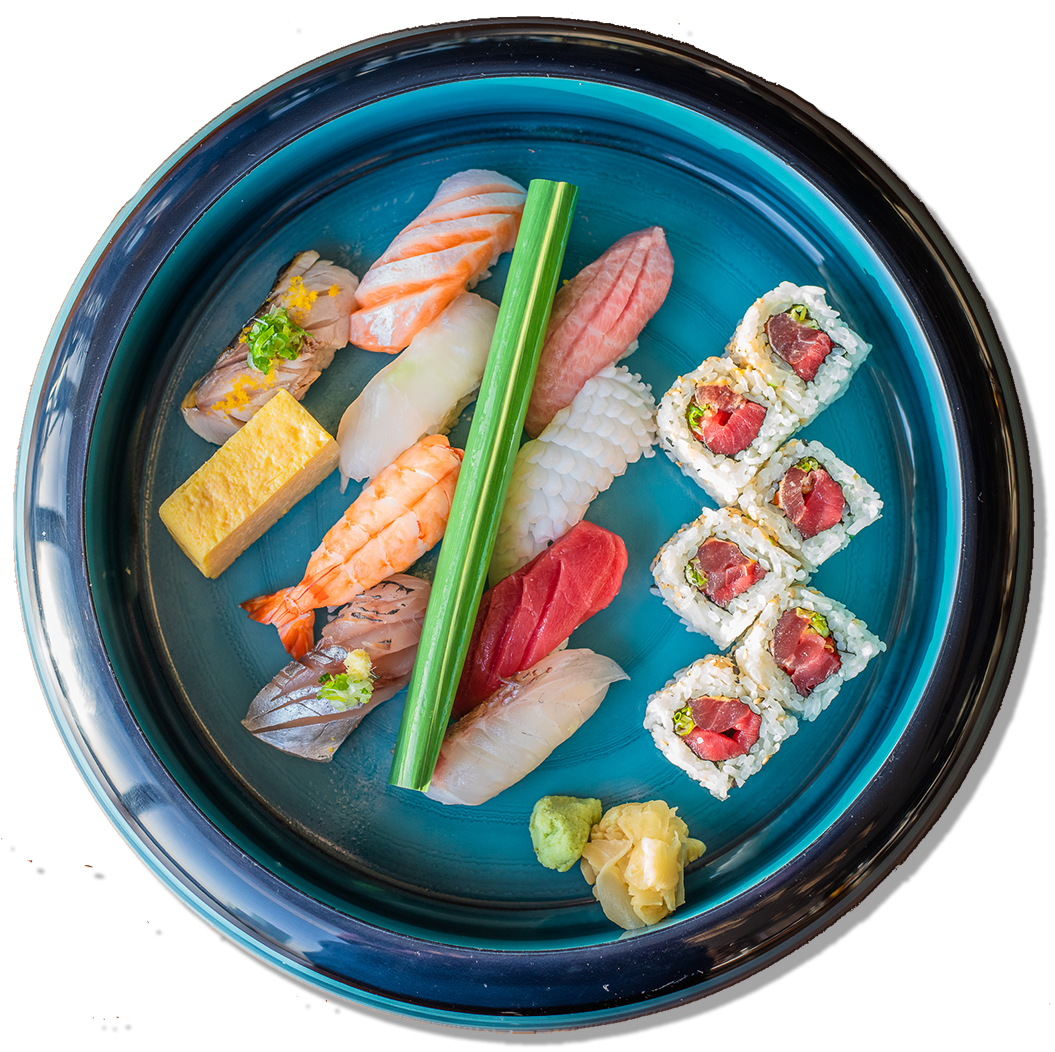
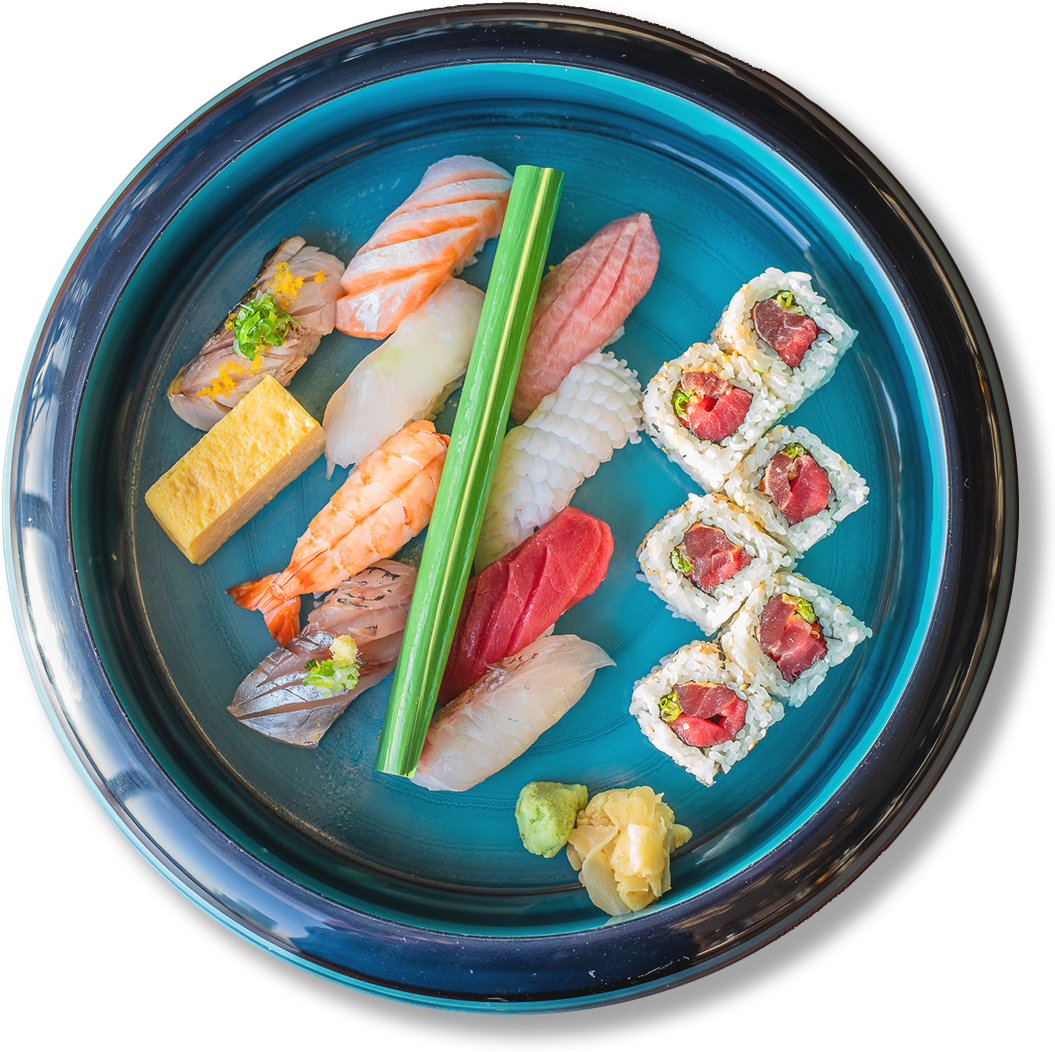
prueba inicio otro plato

diff --git a/inicio/inicio.css b/inicio/inicio.css
@@ -26,21 +26,23 @@
 
 .grid::before{
     content: '';
-    grid-column: 4/-1;  /*  desde la 4 hasta el finnal  */
+    grid-column: 1/-1;  /*  desde la 4 hasta el finnal  */
     grid-row: 1/-1;     /*  de la primera linea a ultima  */
-    background-image: url('../gallery/img/inicio1.png');
+    background-image: url('../gallery/img/inicio_otro_1.png');
     background-repeat: no-repeat;
     /* background-size: ; */ /*  para que la img se ajuste a contenedor */
     background-position: 0% 50%;  /* pare centrar el trozo de img que queremos enseñar */
-    clip-path: polygon(0 0, 100% 0, 100% 0, 0 0); /* !!!!!IMPORTANTE!!!! se hace con la heramienta de clip-path  y sera la posicion INICIAL para animacion */
-    animation: show 3s 4s ease-out forwards; /* FORWARDS- una vez termina la animation el elemento se quedara con los estilos donde termina y no con su estado inicial(en este caso cerrado) */
+    /* clip-path: polygon(0 0, 100% 0, 100% 0, 0 0); */ /* !!!!!IMPORTANTE!!!! se hace con la heramienta de clip-path  y sera la posicion INICIAL para animacion */
+    /* animation: show 3s 4s ease-out forwards; */ /* FORWARDS- una vez termina la animation el elemento se quedara con los estilos donde termina y no con su estado inicial(en este caso cerrado) */
                                       /* ease el modo de como aparece la imagen, por defecto es ease aun que no lo pongas. se puede personalizar con https://cubic-bezier.com/#.17,.67,.83,.67 */
-                                      /* cubic-bezier(.47,.25,.25,.89) por ejemplo */  
+                                      /* cubic-bezier(.47,.25,.25,.89) por ejemplo */
+    animation: move 3s 4s ease-out forwards;                                 
+    transform: translate(100%);                                 
 }
 
 .grid_texts{
     font-family: 'Montserrat', sans-serif;
-   /*  mix-blend-mode: difference; */ /* cambia de color depandiendo de background */
+    /* mix-blend-mode: difference; */ /* cambia de color depandiendo de background */
     color: white;
     grid-column: 1/8 ;    /* cada elemento visual tendra su posicion en el grid, si no se va a desconfigurar todo el grid */
     grid-row: 1/-2;
@@ -50,17 +52,18 @@
     justify-content: center;
     transform: translate(30%);
     /* animation: move 2s 2s forwards; */ /* dere 2s y que espere 2s para ejecutarse */
-    clip-path: polygon(0 100%, 100% 100%, 100% 100%, 0 100%); /*  para que el texto aparezca dedde abajo asia arriba */
+    /* clip-path: polygon(0 100%, 100% 100%, 100% 100%, 0 100%); */ /*  para que el texto aparezca dedde abajo asia arriba */
+    clip-path: polygon(100% 0, 100% 0, 100% 100%, 100% 100%);
     animation: show 3s ease forwards, move 1s 3s forwards ;  
 }
 .grid_title{
     font-size: 2.5rem;
     letter-spacing: 3px;
     font-weight: 500;
+    text-shadow: 1px 3px 5px rgb(24, 22, 22);
 }
 
 .grid_title--transform{
-    /* all: initial; */
     /* mix-blend-mode: initial; */
     color: red;
     font-size: 4rem;
@@ -98,8 +101,8 @@
             transform: translate(30%);  
         }
         .grid::before{
-            grid-column: 3/-1;
-            background-image: url('../gallery/img/inicio4.png');
+            grid-column: 2/-1;
+            background-image: url('../gallery/img/inicio_otro_1_mobil.png');
             background-position: 0% 50%;
         }
 
